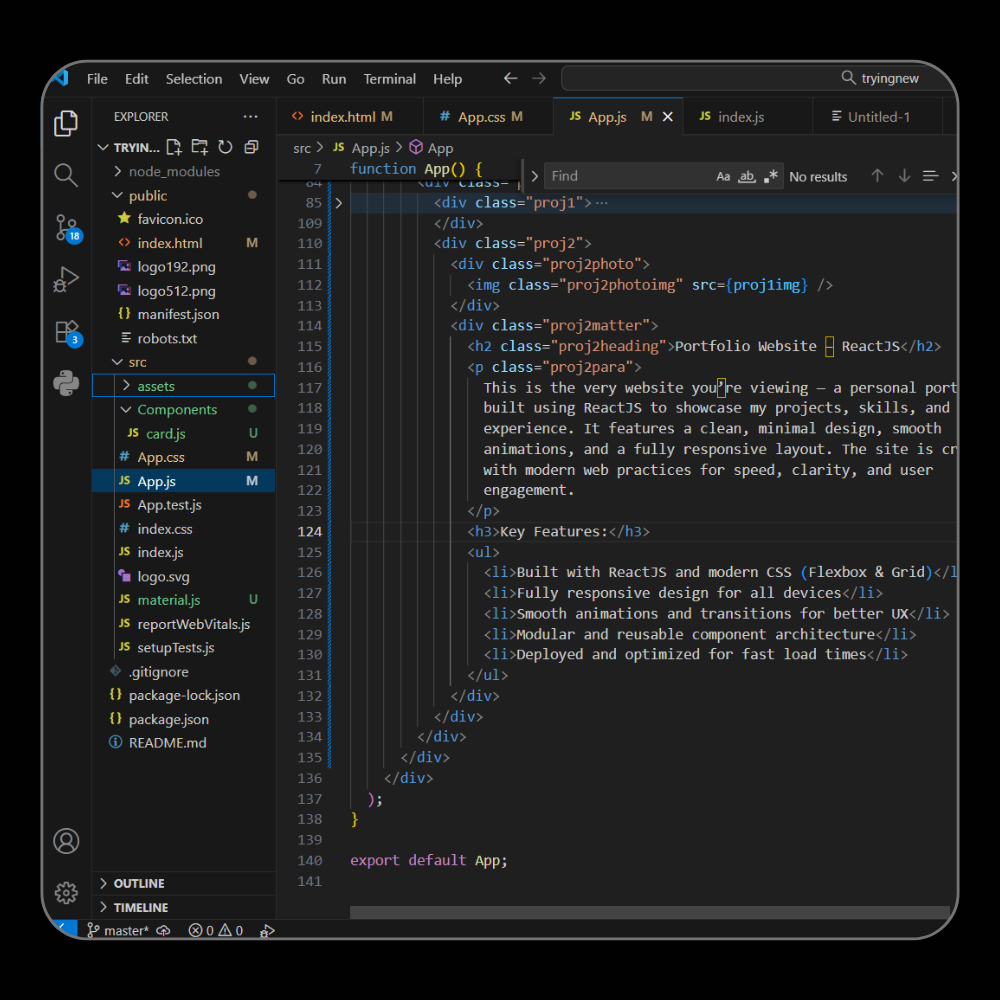
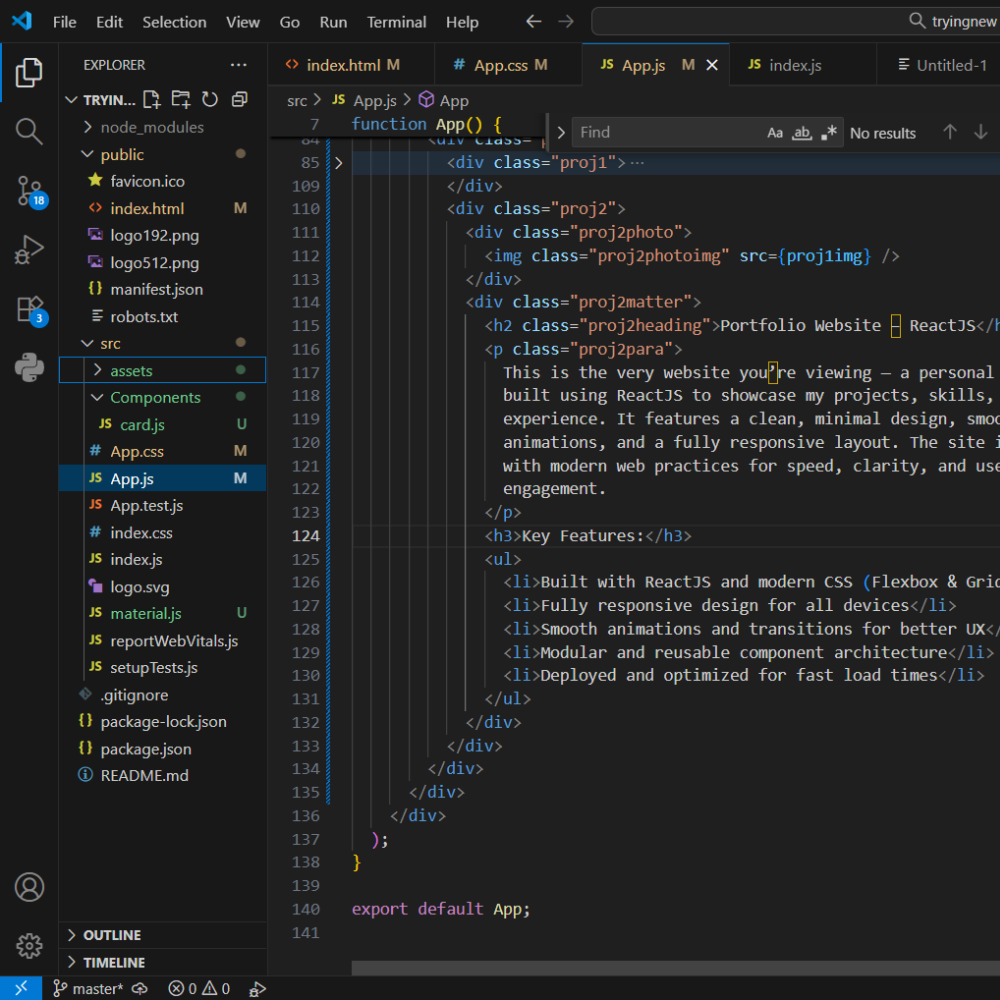
mobile infodiv update

Changed region(s): [[0.0, 0.0, 1.0, 1.0], [0.217, 0.186, 0.248, 0.217]]

diff --git a/src/Home.css b/src/Home.css
@@ -297,7 +297,9 @@ body {
 .proj2photoimg {
   width: 100%;
   box-sizing: border-box;
-  border-radius: 30px;
+  border-radius: 20px;
+  border: 1px solid gray;
+  
 }
 .proj2para {
   color: gray;
@@ -418,6 +420,10 @@ body {
     background-size: 500% 2000px;
     background-position: 5% center;
   }
+  .firstbg{
+    background-size: 100% 1000px;
+    background-position: 50% right;
+  }
   .nav-links {
     box-sizing: border-box;
     flex: 0 0 60%;
@@ -433,11 +439,14 @@ body {
     align-items: center;
     font-size: 1.5vh;
   }
+  .navitems{
+    font-size: 1.5vh;
+  }
 
   .infodiv {
     flex-direction: column;
 
-    height: 70vh;
+    height: auto;
     margin-right: 1%;
     margin-left: 1%;
     align-items: center;
@@ -445,11 +454,12 @@ body {
   }
   .left {
     order: 2;
-    flex: 0 0 50%;
+    flex: 0 0 60%;
     width: 90%;
     margin-right: 0;
     margin-left: 0;
     height: 100%;
+    padding-top: 2vh;
     overflow-x: hidden;
   }
   .lefttop {
@@ -457,16 +467,19 @@ body {
     flex-direction: column;
     justify-content: space-evenly;
     flex: 0 0 50%;
-    margin-bottom: 10%;
+    height: 10vh;
+    margin-bottom: 3vh;
   }
   .leftbottom {
     flex: 0 0 30%;
   }
   .right {
     order: 1;
-    flex: 0 0 50%;
+    flex: 0 0 40%;
     justify-content: center;
     padding-right: 0;
+    box-sizing: border-box;
+    padding-top: 2vh;
   }
   .details {
     text-align: center;
@@ -491,8 +504,12 @@ body {
   .proj2 {
     flex-direction: column;
   }
+  .proj1photoimg{
+    margin-top: 0.8vh;
+  }
   .proj2photoimg {
     padding: 0;
+    margin-top: 0.8vh;
   }
   .proj2matter {
     margin-left: 0%;
